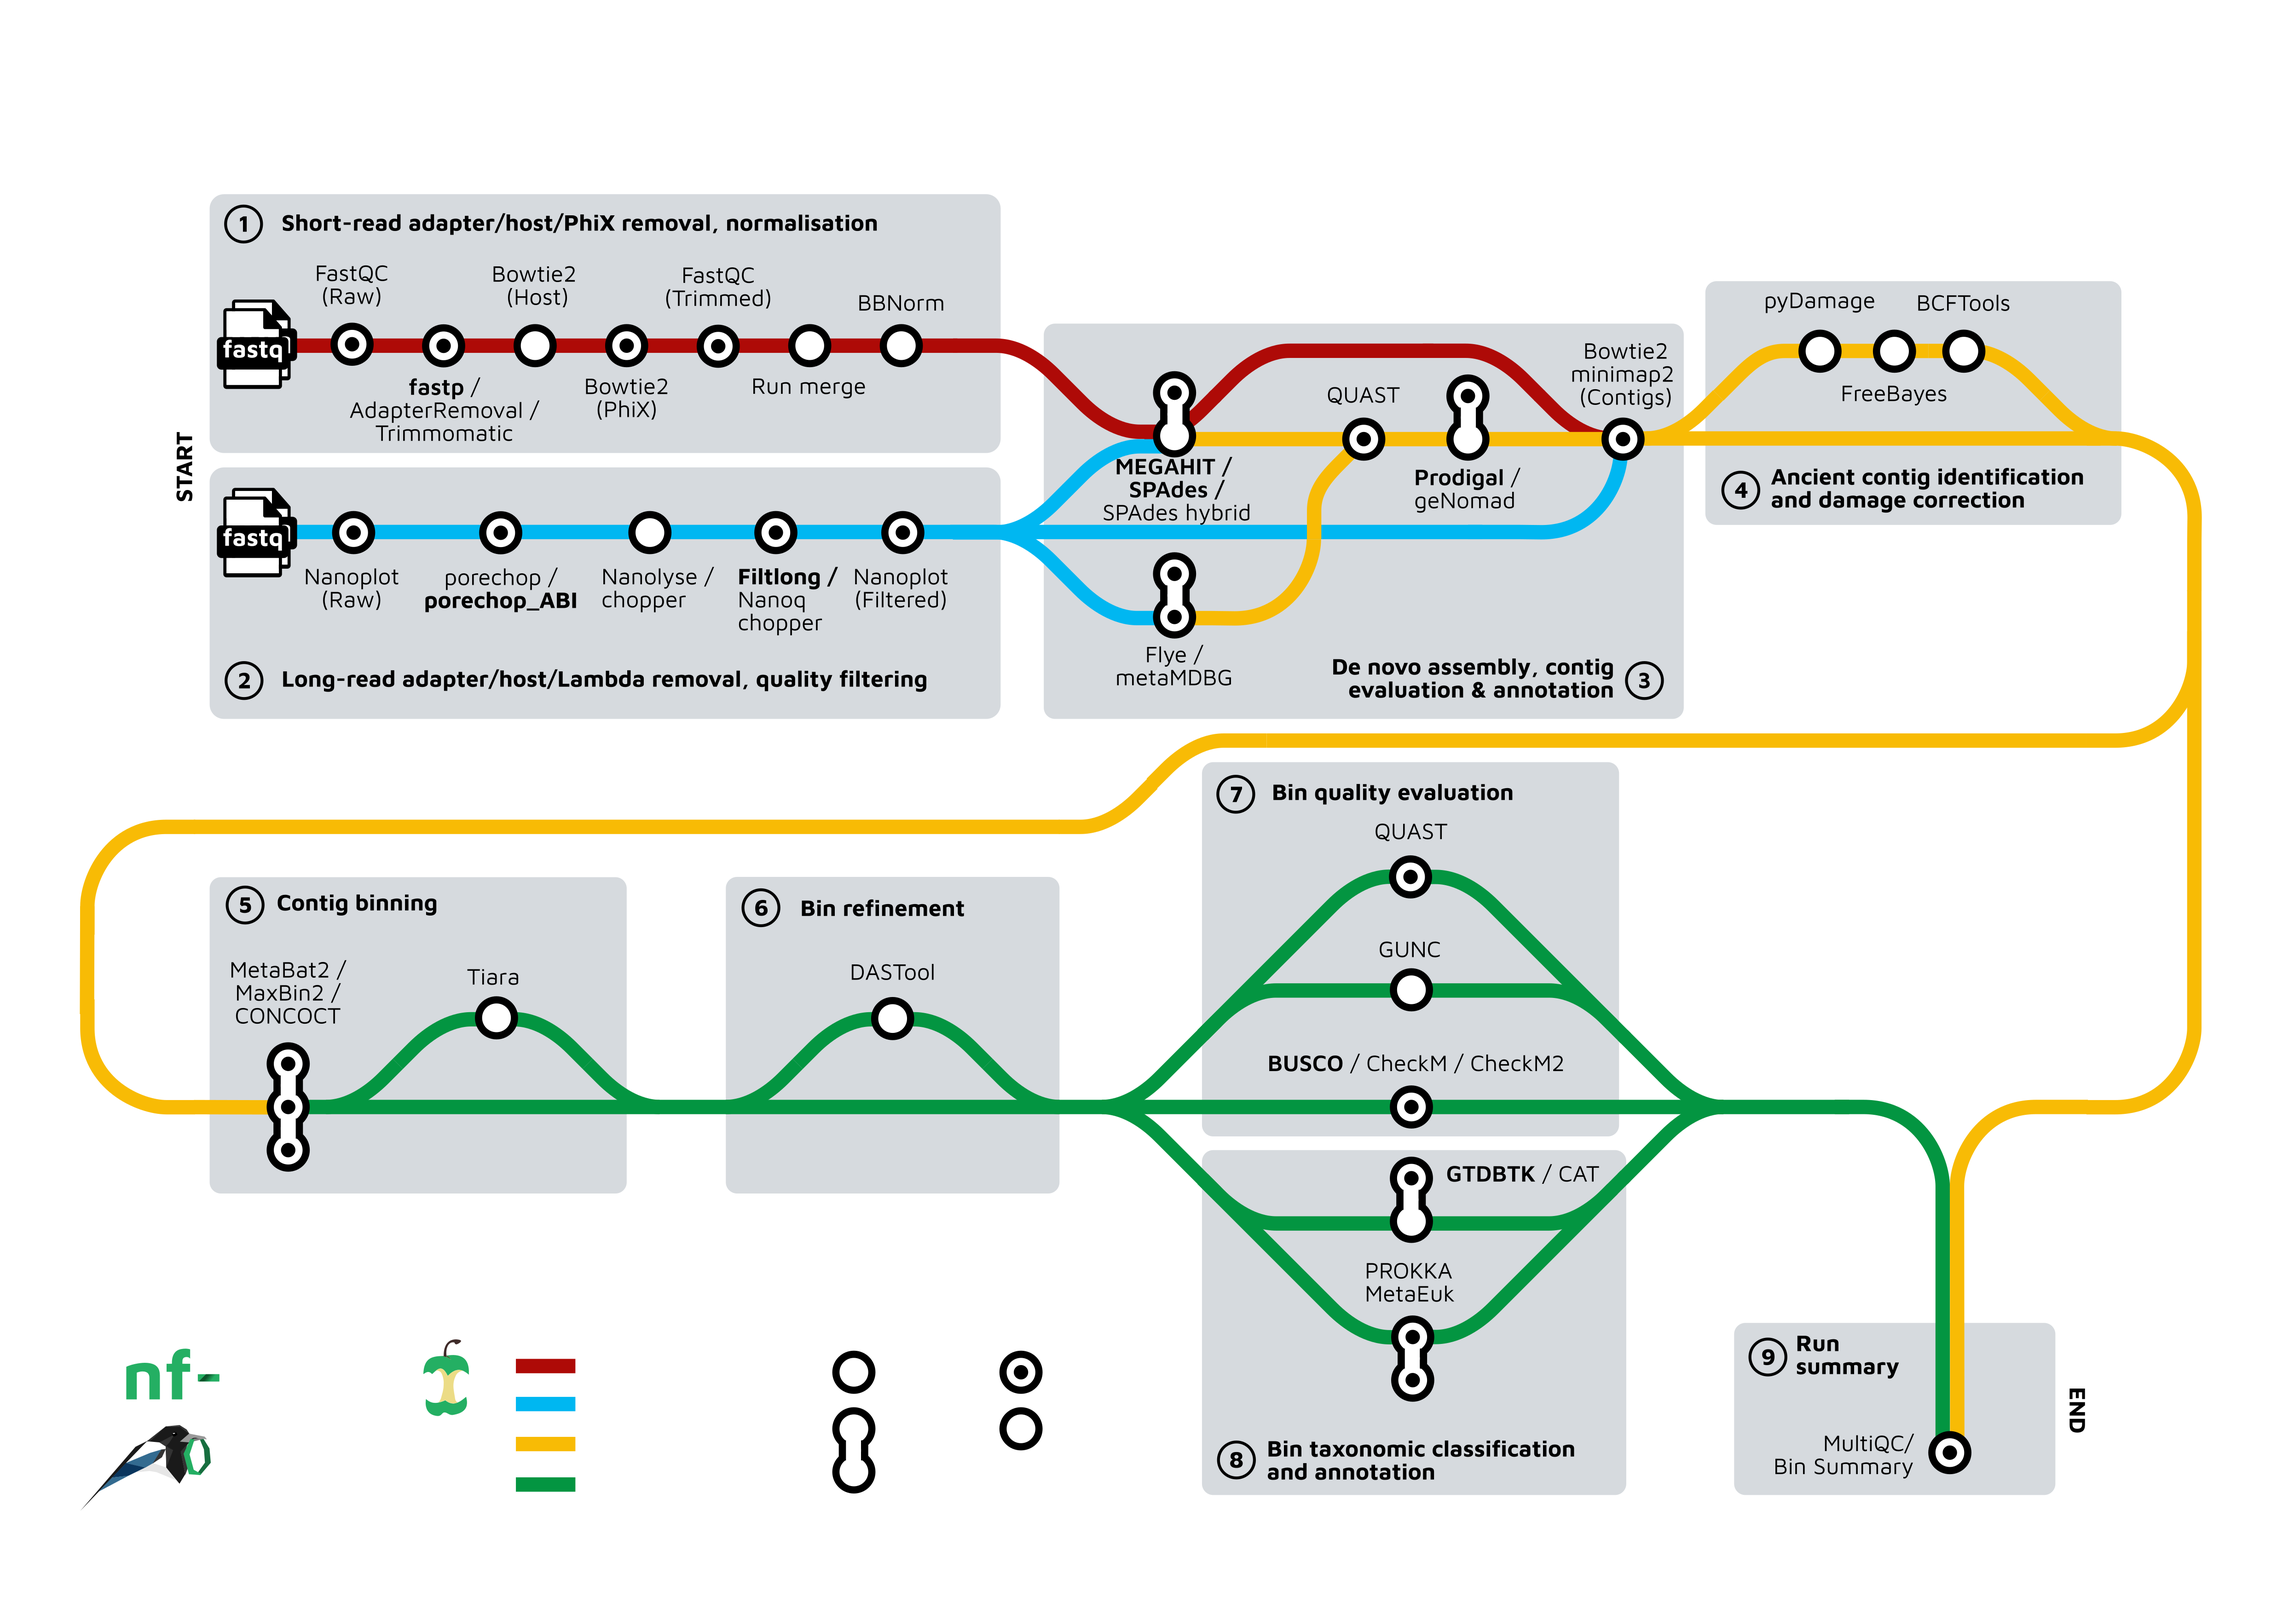
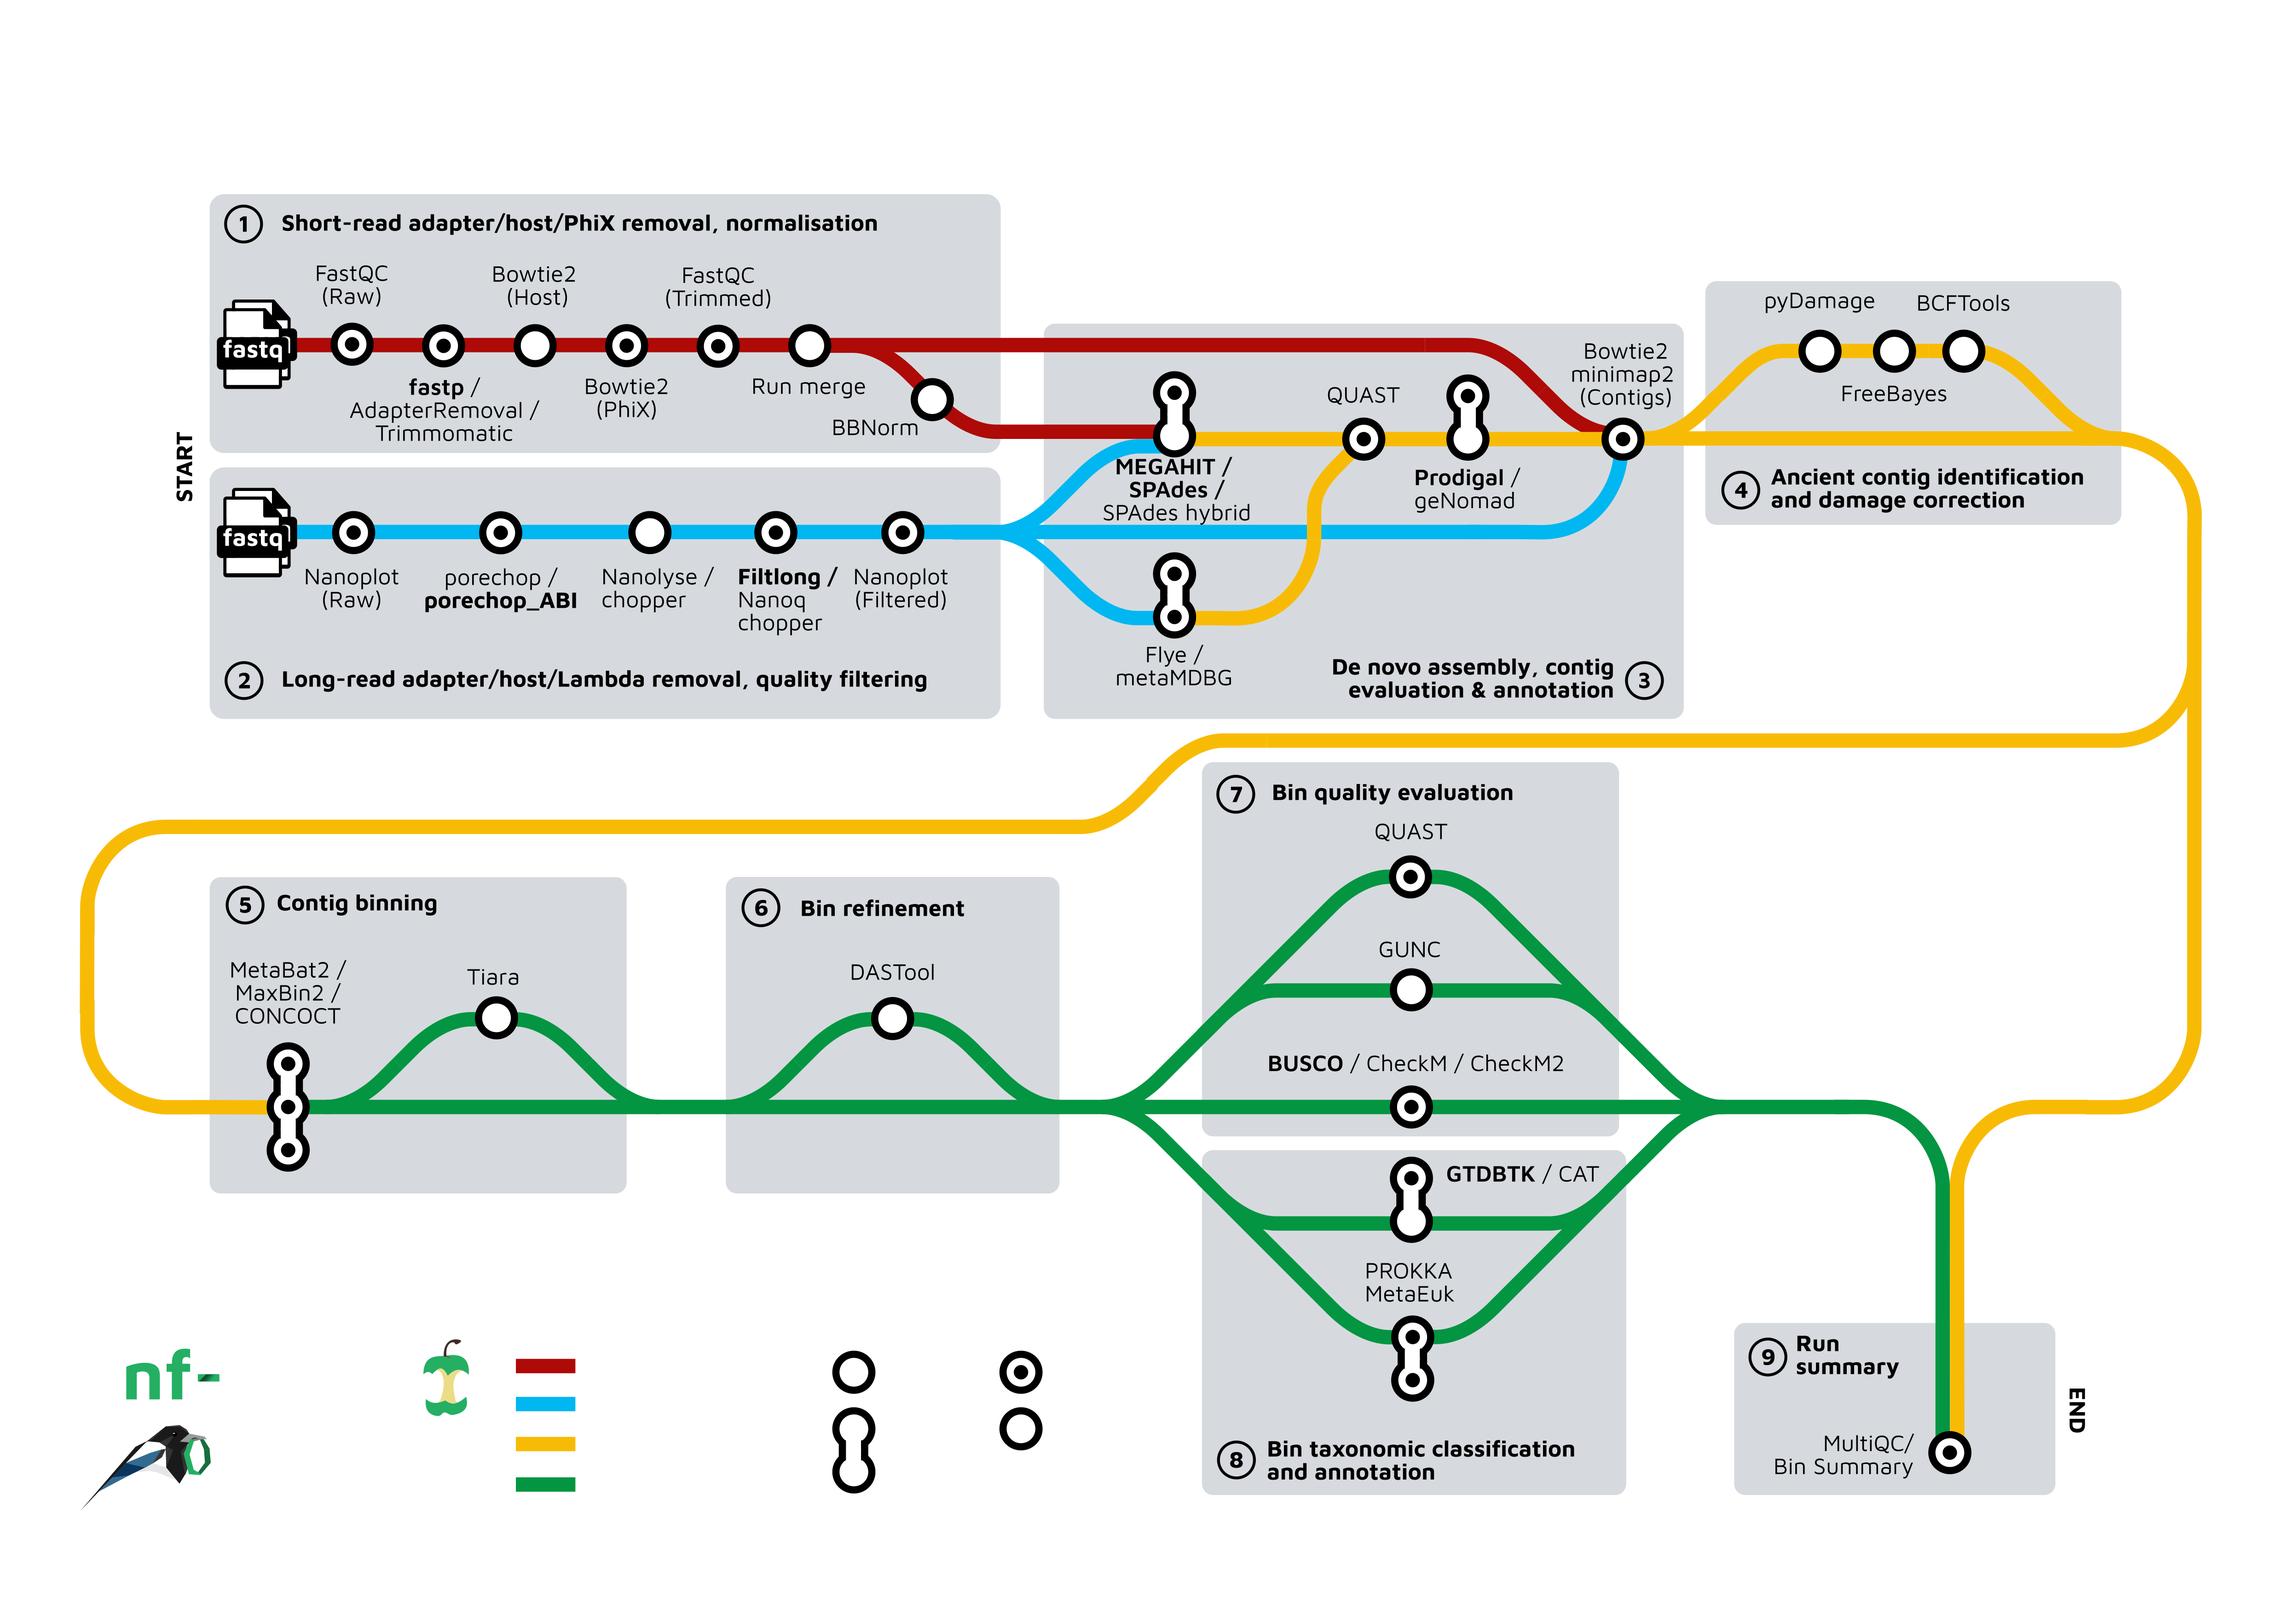
Update chagnelog date and metromap modifications after feedback from @dialvarezs @erikrikarddaniel

Changed region(s): [[0.3749, 0.1864, 0.6874, 0.2796]]

diff --git a/CHANGELOG.md b/CHANGELOG.md
@@ -3,7 +3,7 @@
 The format is based on [Keep a Changelog](https://keepachangelog.com/en/1.0.0/)
 and this project adheres to [Semantic Versioning](https://semver.org/spec/v2.0.0.html).
 
-## 5.0.0 - [2025-09-19]
+## 5.0.0 - [2025-09-22]
 
 ### `Added`
 
